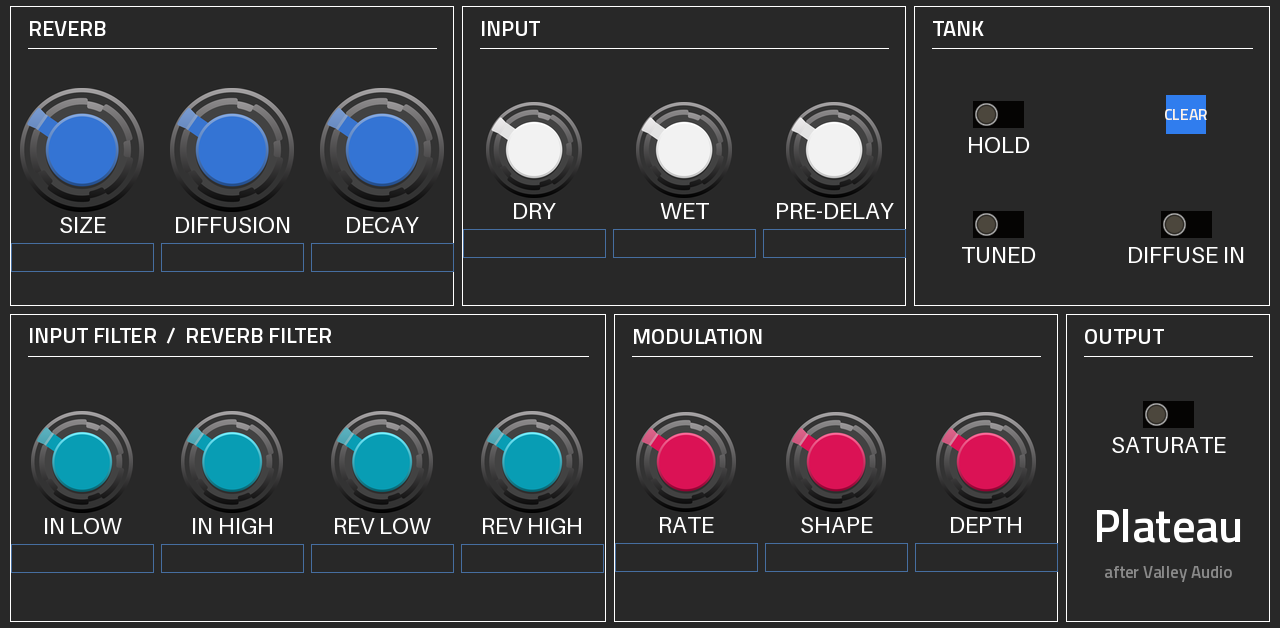
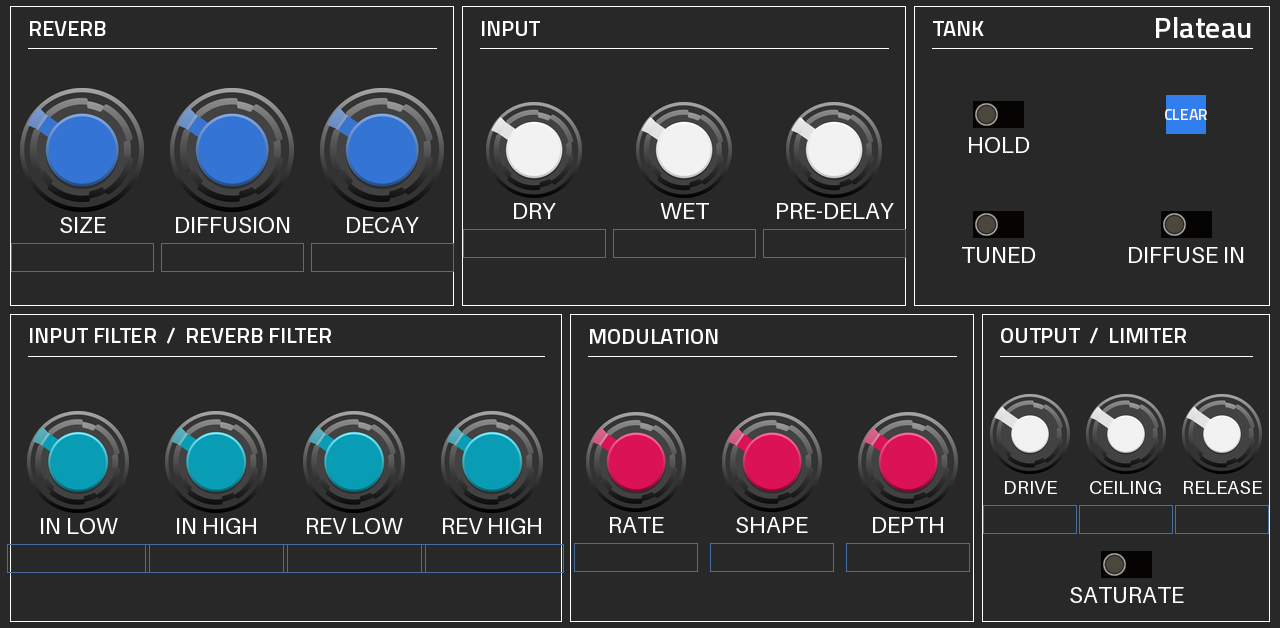
Brickwall limiter from RMXXXL; fix the LFO FREQ knob jumping (0.3.0)
The LFO pages' FREQ knob (r=59) made a filmstrip exactly 16384 px tall,
which MPC drew misaligned on a Force: it jumped up and down as it turned.
It is now r=57 (15872 px); knob_art.py notes the limit.

Adds RMXXXL's look-ahead brickwall limiter after the output saturation
(Drive, Ceiling, Release; parameters appended), in an OUTPUT / LIMITER
frame. Its window minimum is a monotonic queue instead of a 64-entry scan:
same output sample for sample (tested against RMXXXL's), about a third of
the plugin's CPU saved.

Claude-Session: https://claude.ai/code/session_0158n5WvmkJ7rz6zgE5saniE

diff --git a/test/plateau_test.cc b/test/plateau_test.cc
@@ -14,6 +14,9 @@
 #include <string>
 #include <vector>
 
+#include "limiter.h"
+#include "limiter_ref.h"
+
 extern "C" {
 #include "engine.h"
 }
@@ -186,8 +189,9 @@ int main(int argc, char** argv) {
     const int n = 86 * kBlock;   // whole blocks, so every frame compared had its input
     std::vector<int16_t> in = Noise(n, 0.25), out;
     p.Run(&in, n, &out);
-    int diff = 0;
-    for (size_t i = 2 * kRate / 10; i < out.size() && i < in.size(); ++i) diff = abs(out[i] - in[i]) > diff ? abs(out[i] - in[i]) : diff;
+    int diff = 0;   // the limiter's look-ahead delays the output by 64 samples
+    for (size_t i = 2 * kRate / 10; i + 128 < out.size() && i < in.size(); ++i)
+      diff = abs(out[i + 128] - in[i]) > diff ? abs(out[i + 128] - in[i]) : diff;
     snprintf(msg, sizeof msg, "Dry 100 %% / Wet 0 %% passes the input through (max difference %d LSB)", diff);
     Check(diff <= 2, msg);
   }
@@ -308,6 +312,60 @@ int main(int argc, char** argv) {
     Check(first > 0.05 && later < 1e-4, msg);
   }
 
+  // ---- brickwall limiter (RMXXXL's): nothing passes the ceiling, Drive pushes into it
+  {
+    Plug p;
+    p.Set("dry", 1); p.Set("wet", 1); p.Set("decay", 0.9); p.Set("size", 1);
+    p.Set("lim_ceiling", -6.0); p.Set("lim_drive", 12.0);
+    std::vector<int16_t> in = Noise(4 * kRate, 0.9), out;
+    p.Run(&in, 4 * kRate, &out);
+    int peak = 0;   // after the settings' 30 ms glide from their defaults
+    for (size_t i = 2 * kRate / 10; i < out.size(); ++i) peak = abs(out[i]) > peak ? abs(out[i]) : peak;
+    double ceiling = 32768.0 * pow(10.0, -6.0 / 20.0);
+    snprintf(msg, sizeof msg, "limiter: loud input + 12 dB drive never passes a -6 dB ceiling (peak %.2f dBFS)", Db(peak / 32768.0));
+    Check(peak <= ceiling + 1, msg);
+    Plug d;   // a moderate signal: +12 dB of Drive makes it louder, still under the ceiling
+    d.Set("dry", 1); d.Set("wet", 0); d.Set("lim_ceiling", -6.0);
+    std::vector<int16_t> mid = Noise(2 * kRate, 0.15), flat, pushed;
+    d.Run(&mid, 2 * kRate, &flat);
+    d.Set("lim_drive", 12.0);
+    d.Run(&mid, 2 * kRate, &pushed);
+    double a = Db(Rms(flat, kRate, kRate)), b = Db(Rms(pushed, kRate, kRate));
+    snprintf(msg, sizeof msg, "limiter: Drive pushes the level into the ceiling (%.1f -> %.1f dBFS RMS)", a, b);
+    Check(b > a + 6.0, msg);
+    {   // the fast window minimum matches RMXXXL's scan, sample for sample, through changing settings
+      plateau::Limiter fast;
+      plateau::LimiterRef ref;
+      fast.Init();
+      ref.Init();
+      std::vector<int16_t> v = Noise(10 * kRate, 0.9);
+      float fl[kBlock], fr[kBlock], rl[kBlock], rr[kBlock];
+      double worst = 0;
+      for (int b = 0; b < 10 * kRate / kBlock; ++b) {
+        for (int i = 0; i < kBlock; ++i) {
+          float env = (b % 40) < 20 ? 1.0f : 0.05f;   // loud and quiet stretches, so the gain both falls and recovers
+          fl[i] = rl[i] = v[2 * (b * kBlock + i)] / 32768.0f * env;
+          fr[i] = rr[i] = v[2 * (b * kBlock + i) + 1] / 32768.0f * env;
+        }
+        float drive = (b % 97) / 8.0f, ceiling = -(b % 53) / 6.0f, rel = 10.0f + (b % 31) * 15.0f;
+        fast.Process(fl, fr, kBlock, drive, ceiling, rel, kRate);
+        ref.Process(rl, rr, kBlock, drive, ceiling, rel, kRate);
+        for (int i = 0; i < kBlock; ++i) worst = fmax(worst, fmax(fabs(fl[i] - rl[i]), fabs(fr[i] - rr[i])));
+      }
+      snprintf(msg, sizeof msg, "limiter: same output as RMXXXL's, sample for sample (largest difference %g)", worst);
+      Check(worst == 0.0, msg);
+    }
+    Plug q;   // the default ceiling (-0.3 dB) leaves a quiet signal untouched
+    q.Set("dry", 1); q.Set("wet", 0);
+    const int n = 86 * kBlock;
+    std::vector<int16_t> quiet = Noise(n, 0.1), qo;
+    q.Run(&quiet, n, &qo);
+    int diff = 0;
+    for (int i = 2 * 64; i < 2 * (n - 64); ++i) diff = abs(qo[i + 2 * 64] - quiet[i]) > diff ? abs(qo[i + 2 * 64] - quiet[i]) : diff;
+    snprintf(msg, sizeof msg, "limiter: a quiet signal passes unchanged, 64 samples late (max difference %d LSB)", diff);
+    Check(diff <= 2, msg);
+  }
+
   // ---- display text
   {
     Plug p;
@@ -316,7 +374,7 @@ int main(int argc, char** argv) {
       {"in_high", 0, "440 Hz"}, {"in_low", 10, "14 Hz"}, {"in_low", 0, "440 Hz"}, {"decay", 0.1, "0 %"},
       {"decay", 0.9999, "100 %"}, {"mod_shape", 0.5, "+0 %"}, {"mod_depth", 16, "100 %"}, {"diffusion", 10, "100 %"},
       {"size_cv", -0.5, "-50 %"}, {"lfo1_offset", 1, "+5.00 V"}, {"sq2_s16", -2.5, "-2.50 V"}, {"td_freq", 12, "+12.0 st"},
-      {"lfo2_freq", 0, "Sync"},
+      {"lfo2_freq", 0, "Sync"}, {"lim_ceiling", -0.3, "-0.3 dB"}, {"lim_drive", 6, "+6.0 dB"}, {"lim_release", 80, "80 ms"},
     };
     for (size_t i = 0; i < sizeof t / sizeof t[0]; ++i) {
       p.Set(t[i].key, t[i].v);

diff --git a/src/limiter.h b/src/limiter.h
@@ -1,0 +1,66 @@
+// SPDX-License-Identifier: GPL-3.0-or-later
+// Brickwall limiter, the same as RMXXXL's (https://github.com/sunskiefer/RMXXXL, src/dsp.h, by the same author).
+// Stereo-linked look-ahead peak limiter. Drive pushes the signal in, Ceiling is the absolute output maximum.
+// The gain needed for each incoming sample is known kLookahead samples before that sample is played; a sliding
+// minimum over that window, smoothed to reach its value within the window, pulls the gain down before the peak
+// arrives (no distortion on transients), and a final clamp at the ceiling makes it a true brickwall even if the
+// smoothing lags. Adds kLookahead samples (1.45 ms) of latency.
+// Same output as RMXXXL's, sample for sample: the window minimum comes from a monotonic queue (O(1) per sample)
+// instead of a scan of all 64 entries (test/plateau_test.cc checks it against the scan).
+#pragma once
+#include <math.h>
+#include <string.h>
+
+namespace plateau {
+
+struct Limiter {
+  static const int kLookahead = 64;
+  float delay[kLookahead][2];
+  // sliding minimum of the gain the last kLookahead samples need: increasing values, oldest first
+  float q_val[kLookahead];
+  long q_idx[kLookahead];
+  int q_head, q_count;
+  long counter;
+  int pos;
+  float gain;
+  float gr_db;                   // last block's deepest gain reduction
+
+  void Init() {
+    memset(this, 0, sizeof *this);
+    gain = 1.0f;
+  }
+
+  static float DbToGain(float db) { return powf(10.0f, db / 20.0f); }
+  static float Clampf(float x, float lo, float hi) { return x < lo ? lo : (x > hi ? hi : x); }
+
+  void Process(float* l, float* r, int n, float drive_db, float ceiling_db, float release_ms, float sample_rate) {
+    float drive = DbToGain(drive_db), ceiling = DbToGain(ceiling_db);
+    float attack = 1.0f - expf(-1.0f / (kLookahead / 5.0f));            // ~99 % within the look-ahead
+    float release = 1.0f - expf(-1.0f / (Clampf(release_ms, 1.0f, 2000.0f) * 0.001f * sample_rate));
+    float deepest = 1.0f;
+    for (int i = 0; i < n; ++i) {
+      float a = l[i] * drive, b = r[i] * drive;
+      float peak = fmaxf(fabsf(a), fabsf(b));
+      float need = peak > ceiling ? ceiling / peak : 1.0f;
+      float out_l = delay[pos][0], out_r = delay[pos][1];
+      delay[pos][0] = a; delay[pos][1] = b;
+      pos = (pos + 1) % kLookahead;
+      // the window: this sample's need and the previous kLookahead - 1 (all <= 1, as the unfilled start's are)
+      while (q_count > 0 && q_val[(q_head + q_count - 1) % kLookahead] >= need) --q_count;
+      int back = (q_head + q_count) % kLookahead;
+      q_val[back] = need;
+      q_idx[back] = counter;
+      ++q_count;
+      while (q_idx[q_head] <= counter - kLookahead) { q_head = (q_head + 1) % kLookahead; --q_count; }
+      ++counter;
+      float target = q_val[q_head];
+      gain += (target - gain) * (target < gain ? attack : release);
+      l[i] = Clampf(out_l * gain, -ceiling, ceiling);    // the brickwall
+      r[i] = Clampf(out_r * gain, -ceiling, ceiling);
+      if (gain < deepest) deepest = gain;
+    }
+    gr_db = 20.0f * log10f(fmaxf(deepest, 1e-6f));
+  }
+};
+
+}  // namespace plateau

diff --git a/src/engine.cc b/src/engine.cc
@@ -9,7 +9,7 @@
 //
 // Levels: VCV Rack's audio interface maps +-10 V to full scale, so a sample x is 10x volts. Plateau feeds the reverb
 // with in_V * 0.1 and adds rev * wet * 10 volts back, so in full-scale units out = x * dry + rev(x) * wet, the same
-// as the module. Output saturation works on volts, as in the module.
+// as the module. Output saturation works on volts, as in the module. Last comes RMXXXL's brickwall limiter.
 #include <math.h>
 #include <stdint.h>
 #include <stdio.h>
@@ -23,6 +23,7 @@
 #include "denormals.h"
 #include "param_ids.h"
 #include "sources.h"
+#include "limiter.h"
 
 extern "C" {
 #include "engine.h"
@@ -58,6 +59,8 @@ static_assert(P_COUNT <= NPARAMS, "params.h is out of date: run tools/gen_params
 struct Instance {
   Dattorro reverb;
   plateau::Sources sources;
+  plateau::Limiter limiter;
+  float s_drive, s_ceiling;   // limiter settings, smoothed per block
   float param[P_COUNT];
   // tempo
   float bpm;
@@ -74,6 +77,7 @@ struct Instance {
   float env;             // input and wet gain during a clear
   // last block of source voltages (rendered at the start of each block)
   float src[kNumSources][kMaxBlock];
+  float out_l[kMaxBlock], out_r[kMaxBlock];   // the block before the limiter
 
   Instance() : reverb(kSampleRate, 16.0, kSizeMax) {}
 };
@@ -184,6 +188,9 @@ void* Create(const char*) {
   memset(s->src, 0, sizeof s->src);
   s->reverb.setSampleRate(kSampleRate);
   s->sources.Init(static_cast<float>(kSampleRate));
+  s->limiter.Init();
+  s->s_drive = DefaultValue(P_LIM_DRIVE);
+  s->s_ceiling = DefaultValue(P_LIM_CEILING);
   PushControlSettings(s, 0);
   return s;
 }
@@ -283,6 +290,12 @@ int Display(const Instance* s, int p, char* buf, int len) {
       return snprintf(buf, len, "%+.1f st", v);
     case P_MB_T_RATE:
       return snprintf(buf, len, "%+.0f st", v * 60.0f);
+    case P_LIM_DRIVE:
+      return snprintf(buf, len, "+%.1f dB", v);
+    case P_LIM_CEILING:
+      return snprintf(buf, len, "%.1f dB", v);
+    case P_LIM_RELEASE:
+      return snprintf(buf, len, "%.0f ms", v);
   }
   if (!strncmp(key, "lfo", 3)) {
     int first = P_LFO1_WAVE + (key[3] - '1') * (P_LFO2_WAVE - P_LFO1_WAVE);
@@ -389,8 +402,18 @@ void ProcessBlock(Instance* s, const int16_t* in_lr, int16_t* out_lr, int frames
       ol = tanhDriveSignal(ol * kVolts * kSaturatorPreGain, kSaturatorDrive) * kSaturatorPostGain / kVolts;
       orr = tanhDriveSignal(orr * kVolts * kSaturatorPreGain, kSaturatorDrive) * kSaturatorPostGain / kVolts;
     }
-    out_lr[2 * i] = ToShort(ol);
-    out_lr[2 * i + 1] = ToShort(orr);
+    s->out_l[i] = ol;
+    s->out_r[i] = orr;
+  }
+
+  // ---- brickwall limiter: Drive in, Ceiling out (RMXXXL's)
+  s->s_drive += 0.25f * (s->param[P_LIM_DRIVE] - s->s_drive);
+  s->s_ceiling += 0.25f * (s->param[P_LIM_CEILING] - s->s_ceiling);
+  s->limiter.Process(s->out_l, s->out_r, frames, s->s_drive, s->s_ceiling, s->param[P_LIM_RELEASE],
+                     static_cast<float>(kSampleRate));
+  for (int i = 0; i < frames; ++i) {
+    out_lr[2 * i] = ToShort(s->out_l[i]);
+    out_lr[2 * i + 1] = ToShort(s->out_r[i]);
   }
 }
 

diff --git a/test/limiter_ref.h b/test/limiter_ref.h
@@ -1,0 +1,55 @@
+// SPDX-License-Identifier: GPL-3.0-or-later
+// TEST ONLY: RMXXXL's limiter as it is there (a scan of the window), to check src/limiter.h against. Brickwall limiter (https://github.com/sunskiefer/RMXXXL, src/dsp.h, by the same author).
+// Stereo-linked look-ahead peak limiter. Drive pushes the signal in, Ceiling is the absolute output maximum.
+// The gain needed for each incoming sample is known kLookahead samples before that sample is played; a sliding
+// minimum over that window, smoothed to reach its value within the window, pulls the gain down before the peak
+// arrives (no distortion on transients), and a final clamp at the ceiling makes it a true brickwall even if the
+// smoothing lags. Adds kLookahead samples (1.45 ms) of latency.
+#pragma once
+#define PLATEAU_LIMITER_REF
+#include <math.h>
+#include <string.h>
+
+namespace plateau {
+
+struct LimiterRef {
+  static const int kLookahead = 64;
+  float delay[kLookahead][2];
+  float need[kLookahead];        // gain each delayed sample needs
+  int pos;
+  float gain;
+  float gr_db;                   // last block's deepest gain reduction
+
+  void Init() {
+    memset(this, 0, sizeof *this);
+    gain = 1.0f;
+    for (int i = 0; i < kLookahead; ++i) need[i] = 1.0f;
+  }
+
+  static float DbToGain(float db) { return powf(10.0f, db / 20.0f); }
+  static float Clampf(float x, float lo, float hi) { return x < lo ? lo : (x > hi ? hi : x); }
+
+  void Process(float* l, float* r, int n, float drive_db, float ceiling_db, float release_ms, float sample_rate) {
+    float drive = DbToGain(drive_db), ceiling = DbToGain(ceiling_db);
+    float attack = 1.0f - expf(-1.0f / (kLookahead / 5.0f));            // ~99 % within the look-ahead
+    float release = 1.0f - expf(-1.0f / (Clampf(release_ms, 1.0f, 2000.0f) * 0.001f * sample_rate));
+    float deepest = 1.0f;
+    for (int i = 0; i < n; ++i) {
+      float a = l[i] * drive, b = r[i] * drive;
+      float peak = fmaxf(fabsf(a), fabsf(b));
+      need[pos] = peak > ceiling ? ceiling / peak : 1.0f;
+      float out_l = delay[pos][0], out_r = delay[pos][1];
+      delay[pos][0] = a; delay[pos][1] = b;
+      pos = (pos + 1) % kLookahead;
+      float target = 1.0f;
+      for (int k = 0; k < kLookahead; ++k) target = fminf(target, need[k]);
+      gain += (target - gain) * (target < gain ? attack : release);
+      l[i] = Clampf(out_l * gain, -ceiling, ceiling);    // the brickwall
+      r[i] = Clampf(out_r * gain, -ceiling, ceiling);
+      if (gain < deepest) deepest = gain;
+    }
+    gr_db = 20.0f * log10f(fmaxf(deepest, 1e-6f));
+  }
+};
+
+}  // namespace plateau

diff --git a/tools/knob_art.py b/tools/knob_art.py
@@ -3,6 +3,9 @@
 
     python3 tools/knob_art.py "<skin dir>/Plugin Skins"
 
+Keep every radius at 58 or less: the filmstrip is 128 frames of 2R+10 px, and r=59 makes it exactly 16384 px tall,
+which MPC draws misaligned (the knob jumped up and down as it turned, seen on a Force, 2026-10-08).
+
 gen_vst.py writes one filmstrip per knob radius (sh_knob_r<R>.png: 128 square frames of 2R+10 px, stacked down,
 minimum first). layout.conf gives each kind of knob its own radius, and this redraws each strip from art/:
 a static background layer, the knob rotated over its VCV range, and a static highlight on top, on the colour of
@@ -38,7 +41,7 @@ KNOBS = {
     38: ("valley/Rogan1PSSmall-bg", "valley/Rogan1PSBlueSmall", "valley/Rogan1PSBlueSmall-fg", VALLEY, ROGAN, 1.0),
     39: ("valley/Rogan1PSSmall-bg", "valley/Rogan1PSRedSmall", "valley/Rogan1PSRedSmall-fg", VALLEY, ROGAN, 1.0),
     # Bogaudio LFO: Knob68 (frequency), Knob26 (sample, pulse width), Knob16 (smooth, offset, scale)
-    59: (None, "bogaudio/knob_68px", None, BOGAUDIO, ROGAN, 1.0),
+    57: (None, "bogaudio/knob_68px", None, BOGAUDIO, ROGAN, 1.0),
     42: (None, "bogaudio/knob_26px", None, BOGAUDIO, ROGAN, 1.0),
     34: (None, "bogaudio/knob_16px", None, BOGAUDIO, ROGAN, 1.0),
     # Tidal Modulator 2 / Random Sampler: VCV's Rogan 3PS, 2PS and 1PS white knobs

diff --git a/tools/gen_params.py b/tools/gen_params.py
@@ -113,6 +113,12 @@ for n in range(1, 3):
           knob(k + "width", "Gate%d Width" % n, 0.05, 1.0, 0.5)]
 
 
+# ---- 0.3.0: brickwall limiter at the output, as in RMXXXL (Drive in, Ceiling out) ------------------------------------
+P += [knob("lim_drive", "Limiter Drive", 0.0, 18.0, 0.0, unit="dB"),
+      knob("lim_ceiling", "Ceiling", -12.0, 0.0, -0.3, unit="dB"),
+      knob("lim_release", "Limiter Release", 10.0, 500.0, 80.0, unit="ms")]
+
+
 def c_ident(key):
     return "P_" + key.upper()
 

diff --git a/src/param_ids.h b/src/param_ids.h
@@ -186,7 +186,10 @@ enum ParamId {
   P_GT2_LEN = 181,
   P_GT2_DIV = 182,
   P_GT2_WIDTH = 183,
-  P_COUNT = 184
+  P_LIM_DRIVE = 184,
+  P_LIM_CEILING = 185,
+  P_LIM_RELEASE = 186,
+  P_COUNT = 187
 };
 
 static const int kNumSources = 20;

diff --git a/README.md b/README.md
@@ -15,8 +15,8 @@ Marbles, as in VCV's Audible Instruments), plus two **step sequencers** and two 
 follow the MPC tempo.
 
 > [!NOTE]
-> **Status: 0.2.0, not yet tested on a device.** It passes its test suite on x86 (ASan + UBSan) and on the ARM build
-> under QEMU. Report anything odd under [Issues](../../issues).
+> **Status: 0.3.0.** 0.2.0 was tried on an Akai Force: the pages draw as designed. It passes its test suite on x86
+> (ASan + UBSan) and on the ARM build under QEMU. Report anything odd under [Issues](../../issues).
 
 ![The PLATEAU page](docs/img/plateau.png)
 
@@ -60,7 +60,7 @@ triggers it. Random's T clock becomes the tempo when its CLOCK is set. With "Fre
 | Tank | Hold, Clear, Tuned, Diffuse In | Hold latches; Clear fades out, empties the tank, fades back in |
 | Input filter / Reverb filter | In Low, In High, Rev Low, Rev High | Shown in Hz |
 | Modulation | Rate, Shape, Depth | The tank's four LFOs |
-| Output | Saturate | The module's soft output saturation |
+| Output / Limiter | Drive, Ceiling, Release, Saturate | The module's soft output saturation, then RMXXXL's look-ahead brickwall limiter (1.45 ms latency) |
 
 Q-Links, bank 1: Size, Diffusion, Decay, Wet, Dry, Pre-Delay, Rev Low, Rev High. Bank 2: Rate, Shape, Depth, In Low,
 In High, Hold, Clear, Tuned.

diff --git a/ROADMAP.md b/ROADMAP.md
@@ -5,7 +5,8 @@ Plateau's DSP with all its controls; a built-in source for each of its 15 CV inp
 Modulator 2, Random Sampler, two step and two gate sequencers), tempo-synced; each page in its module's look.
 
 ## Next: on the Force
-- Install 0.2.0, check it loads, every page, the popups, Q-Links and project save/reload.
+- 0.2.0 seen on a Force (2026-10-08): pages draw as designed; the LFO FREQ knob jumped (fixed in 0.3.0).
+- Install 0.3.0: the FREQ knob, the limiter, and playing every source; popups, Q-Links, project save/reload.
 - CPU: `tools/bench.sh build/arm/plateau.so <device-ip> -j` (docs/BENCH.md), once with nothing patched and once with
   every source in use (the heaviest case measured offline costs about twice the reverb alone).
 - Record the results in `tested.json`, then release.

diff --git a/CHANGELOG.md b/CHANGELOG.md
@@ -1,5 +1,12 @@
 # Changelog
 
+## 0.3.0 (unreleased)
+- Brickwall limiter at the output, RMXXXL's (Drive in, Ceiling out, Release), in the OUTPUT / LIMITER frame on the
+  PLATEAU page. Same output as RMXXXL's sample for sample, at a fraction of the CPU (sliding-window minimum).
+- Fixed: the LFO pages' FREQ knob jumped up and down as it turned on the Force (its filmstrip was exactly MPC's
+  16384 px image limit; now 15872 px).
+- The PLATEAU page's lower row is a little narrower to make room; the name plate moved to the TANK frame.
+
 ## 0.2.0 (unreleased)
 - Every CV input of the module (15) picks a built-in source and has the module's attenuverter (CV IN page), with
   the module's own CV math.
